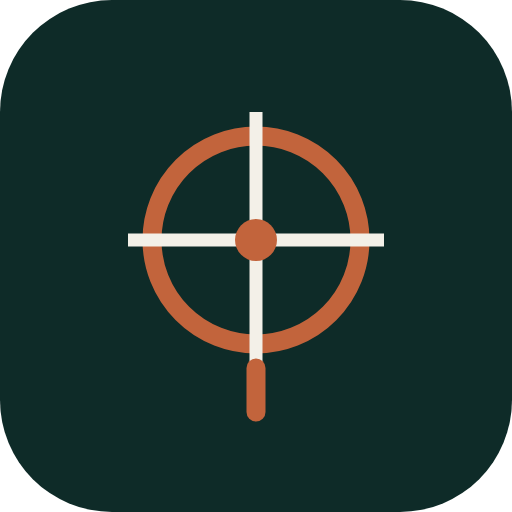
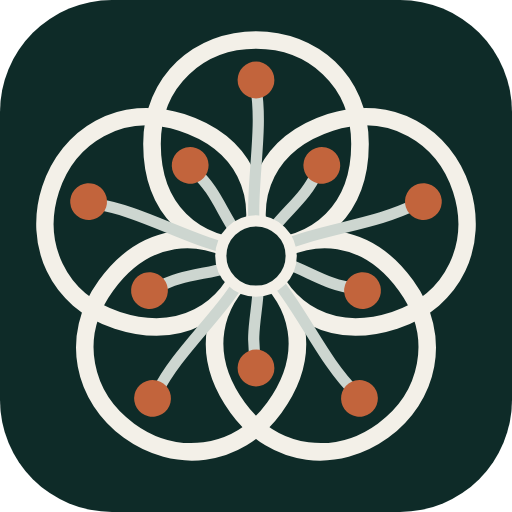
Adopt the blossom brand mark across org materials (#12)

Changed region(s): [[0.0625, 0.0625, 0.9375, 0.9062]]

diff --git a/brand/avatars/README.md b/brand/avatars/README.md
@@ -1,10 +1,12 @@
 # brand/avatars — Lentago Labs identity marks
 
 Canonical GitHub avatar marks for the Lentago Labs identity. The org mark is the
-brand **benchmark disk** — a surveyor's survey marker (copper ring, cream
-crosshair, center point, station tick) set in a deep-teal chip, per the
+brand **blossom** — a five-petal field-flower (limestone petals carried by teal
+contour outlines, a spray of stamens tipped in copper anthers, and a pale center)
+set in a deep-teal chip, per the
 [Lentago Labs brand contract](https://github.com/lentago/lentagolabs-dev/blob/main/BRAND.md).
-It comes in a **rounded** (avatar) and a **square** (sharp-corner) variant.
+It comes in a **rounded** (avatar) and a **square** (sharp-corner) variant. The
+blossom replaced the former benchmark-disk mark in the "Tidewater" system.
 
 The personal mark is still the `<cjp:>` command-prompt chip — that's the
 operator's individual `github.com/cpitzi` identity, not the Lentago Labs org
@@ -12,9 +14,9 @@ brand, so it is intentionally left in its own bracket lettermark.
 
 | File | Mark | Corners | Used as |
 |------|------|---------|---------|
-| `lentago-mark.svg` / `lentago-mark-512.png` | benchmark disk | rounded | **Org** avatar — `github.com/lentago` |
+| `lentago-mark.svg` / `lentago-mark-512.png` | blossom | rounded | **Org** avatar — `github.com/lentago` |
 | `cjp-brackets-navy.svg` / `cjp-brackets-navy-512.png` | `<cjp:>` | rounded | **Personal** avatar — `github.com/cpitzi` |
-| `lentago-mark-square.svg` / `lentago-mark-square-512.png` | benchmark disk | square | Org mark on full-square surfaces |
+| `lentago-mark-square.svg` / `lentago-mark-square-512.png` | blossom | square | Org mark on full-square surfaces |
 | `cjp-brackets-navy-square.svg` / `cjp-brackets-navy-square-512.png` | `<cjp:>` | square | Personal mark on full-square surfaces |
 
 GitHub **circle-crops** avatars, so the rounded variant is what you upload there;
@@ -23,8 +25,9 @@ slides, og/social cards, print).
 
 ## Tokens — "Tidewater"
 
-Deep-teal chip `#0e2b28` · copper ring/center/tick `#c2643c` · limestone
-crosshair `#f3f0e8`. The benchmark disk is drawn (pure SVG geometry) — no font
+Deep-teal chip `#0e2b28` · limestone petals + center `#f3f0e8` · soft-grey
+stamens `#cdd6d0` · copper anthers `#c2643c`. The blossom is drawn (pure SVG
+geometry — five 72°-rotated petals, ten stamens, a pale center) — no font
 dependency. The `<cjp:>` personal mark keeps its own navy `#1c3552` · orange
 `#e08438` · cream `#faf7f2` palette in JetBrains Mono 700, lowercase.
 
@@ -35,7 +38,7 @@ Full palette + mark rationale: `lentago/lentagolabs-dev` → `BRAND.md` and
 
 - **The `.svg` is the source of truth.** The `-512.png` is the rendered artifact
   that gets uploaded to GitHub — re-render at any size from the SVG.
-- The benchmark-disk PNGs are pure vector geometry, so any SVG rasterizer renders
+- The blossom PNGs are pure vector geometry, so any SVG rasterizer renders
   them faithfully (these were rendered headless at 512×512 with transparent
   corners). The `<cjp:>` lettermark PNG needs the self-hosted JetBrains Mono, so
   it is rendered via headless Chrome (harness + history in

diff --git a/CLAUDE.md b/CLAUDE.md
@@ -71,10 +71,11 @@ consistent with it:
   limestone `#f3f0e8`. Copper is an accent — **one element per region, never a
   fill.** (Canonical token values: `lentago/lentagolabs-dev` → `BRAND.md` and
   `public/design-system/tokens/` — those win.)
-- Brand mark: the **benchmark disk** (copper survey ring + cream crosshair +
-  center point + station tick, in a deep-teal chip) — the org avatar in
-  `brand/avatars/`. The field-prompt glyph is the copper **▲** + `lentago`;
-  **never** the retired `:>` / `$` / `>` prompt.
+- Brand mark: the **blossom** (five limestone petals on teal contour outlines,
+  copper-tipped stamens, a pale center, in a deep-teal chip) — the org avatar in
+  `brand/avatars/`. It replaced the former benchmark disk in "Tidewater". The
+  field-prompt glyph is the copper **▲** + `lentago`; **never** the retired
+  `:>` / `$` / `>` prompt.
 - Tagline: **"Production that shows up when the need does."** (carries over from
   the former Pitzi Labs — same business, same voice; only name/palette/mark
   changed).